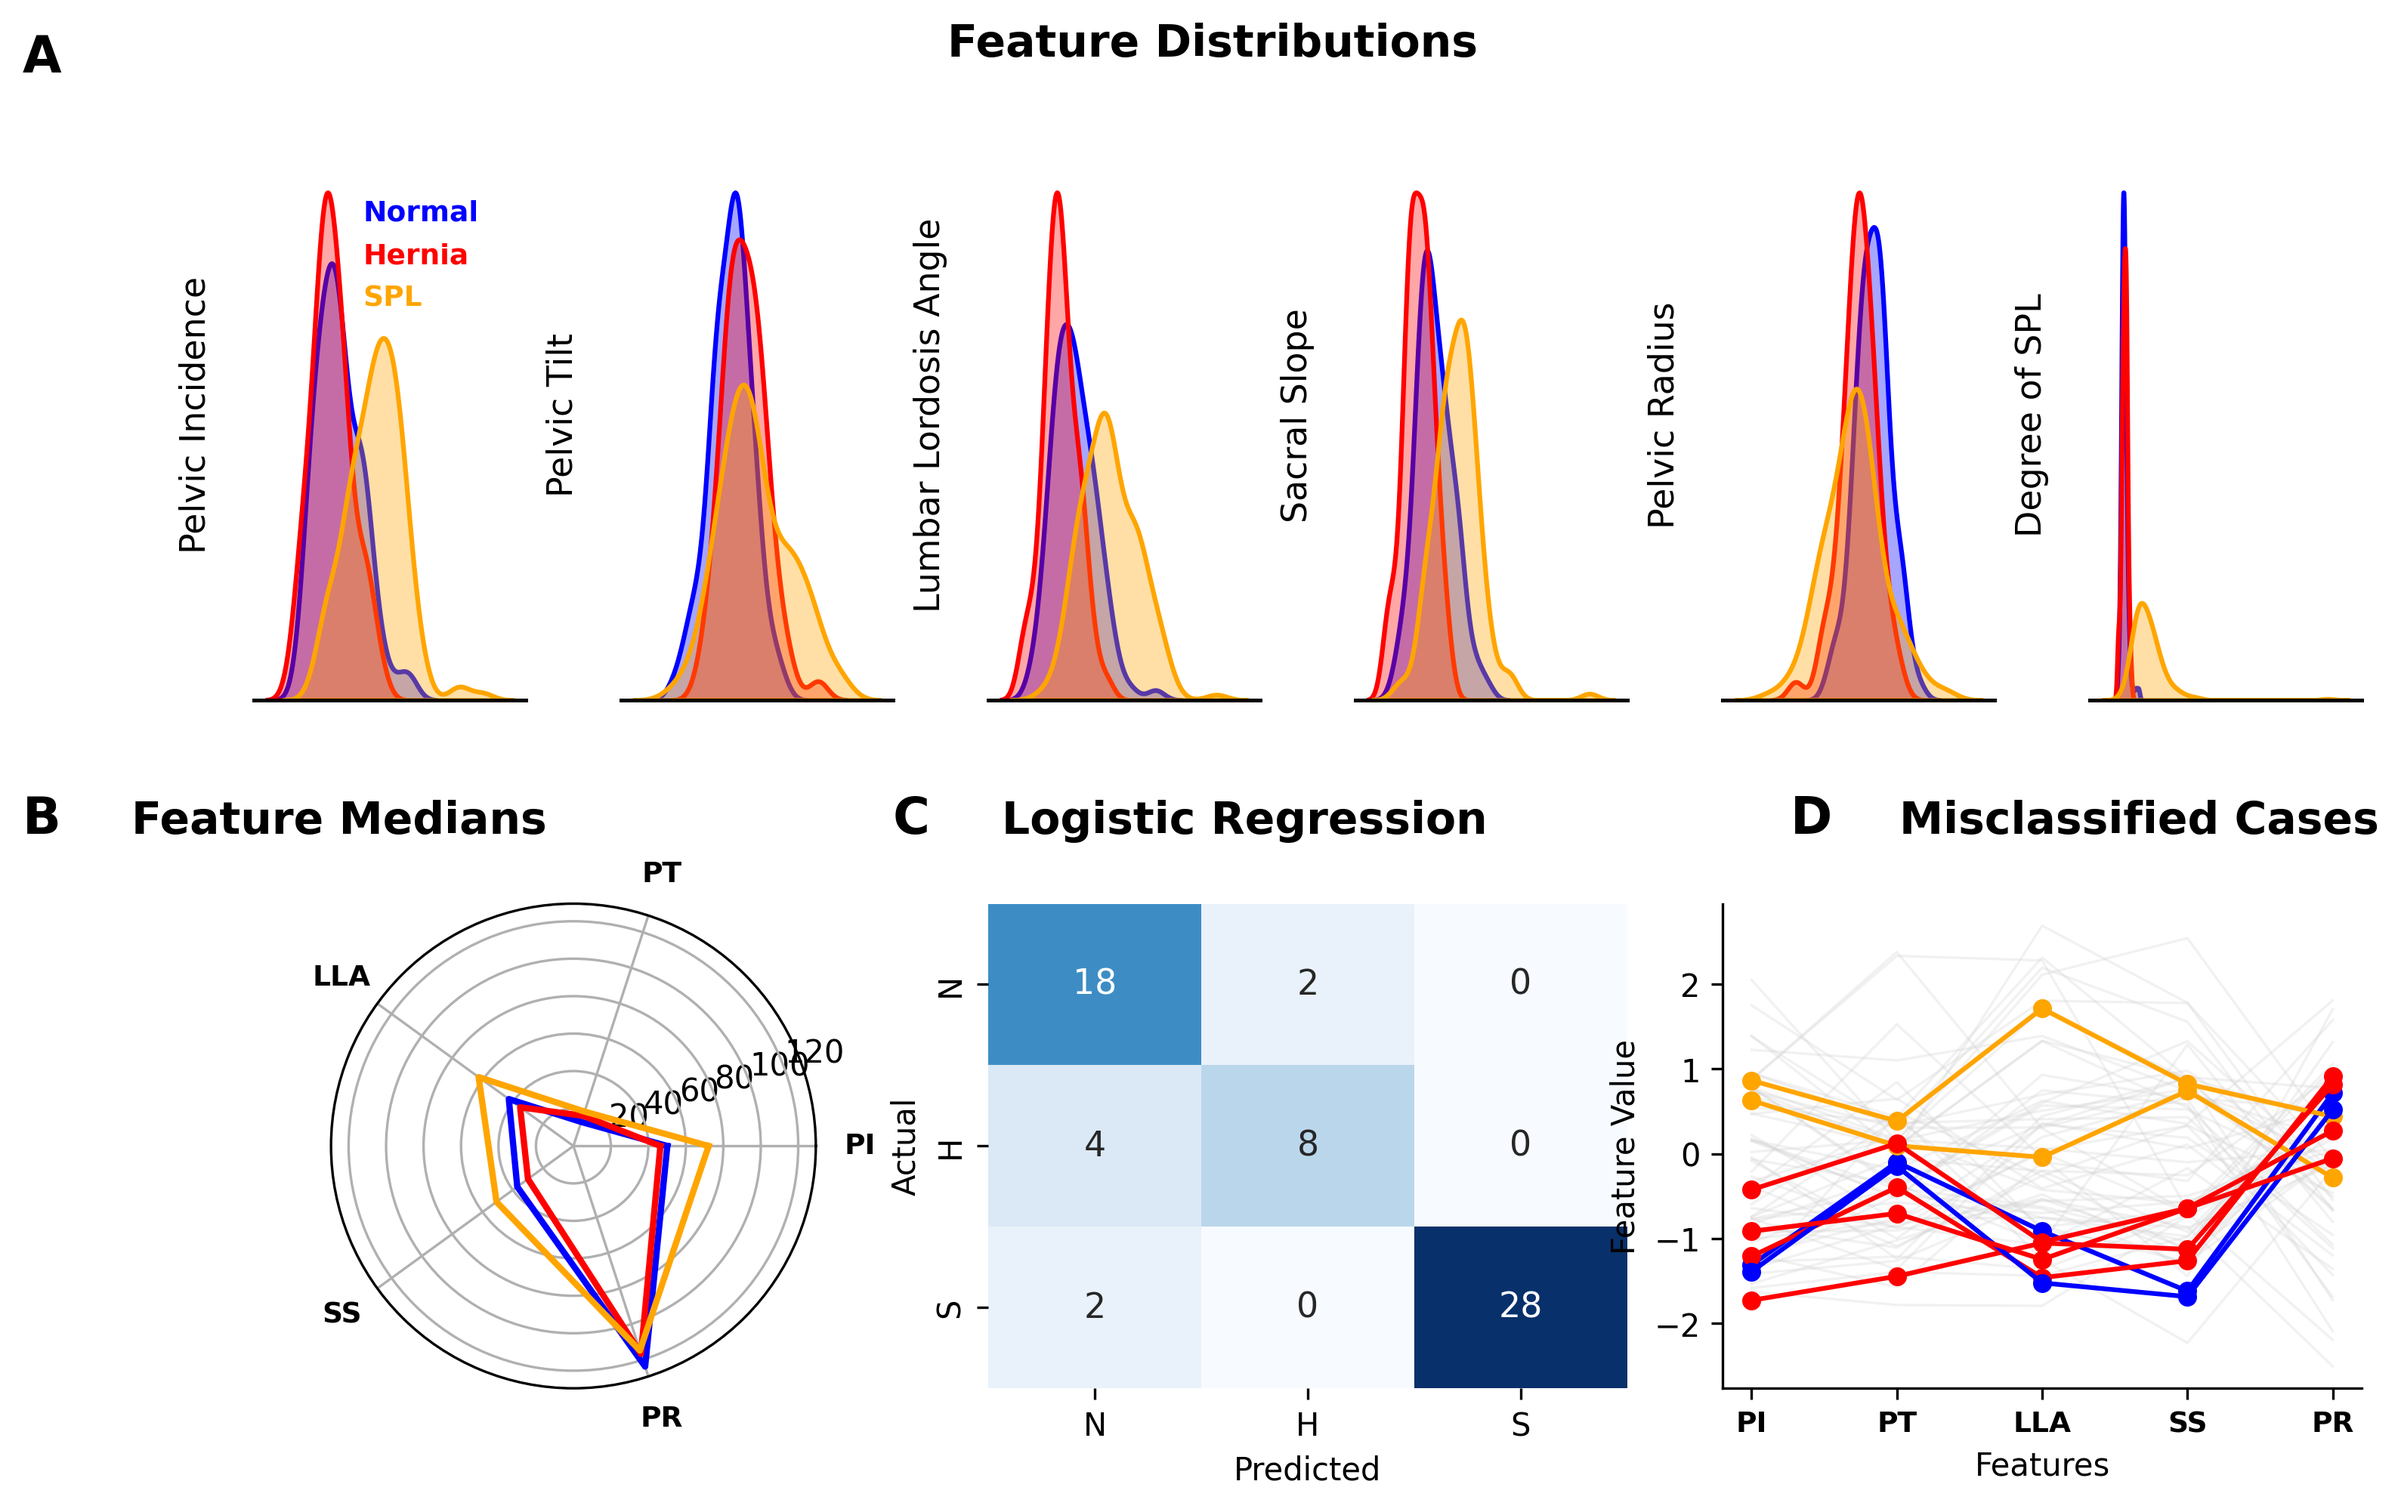
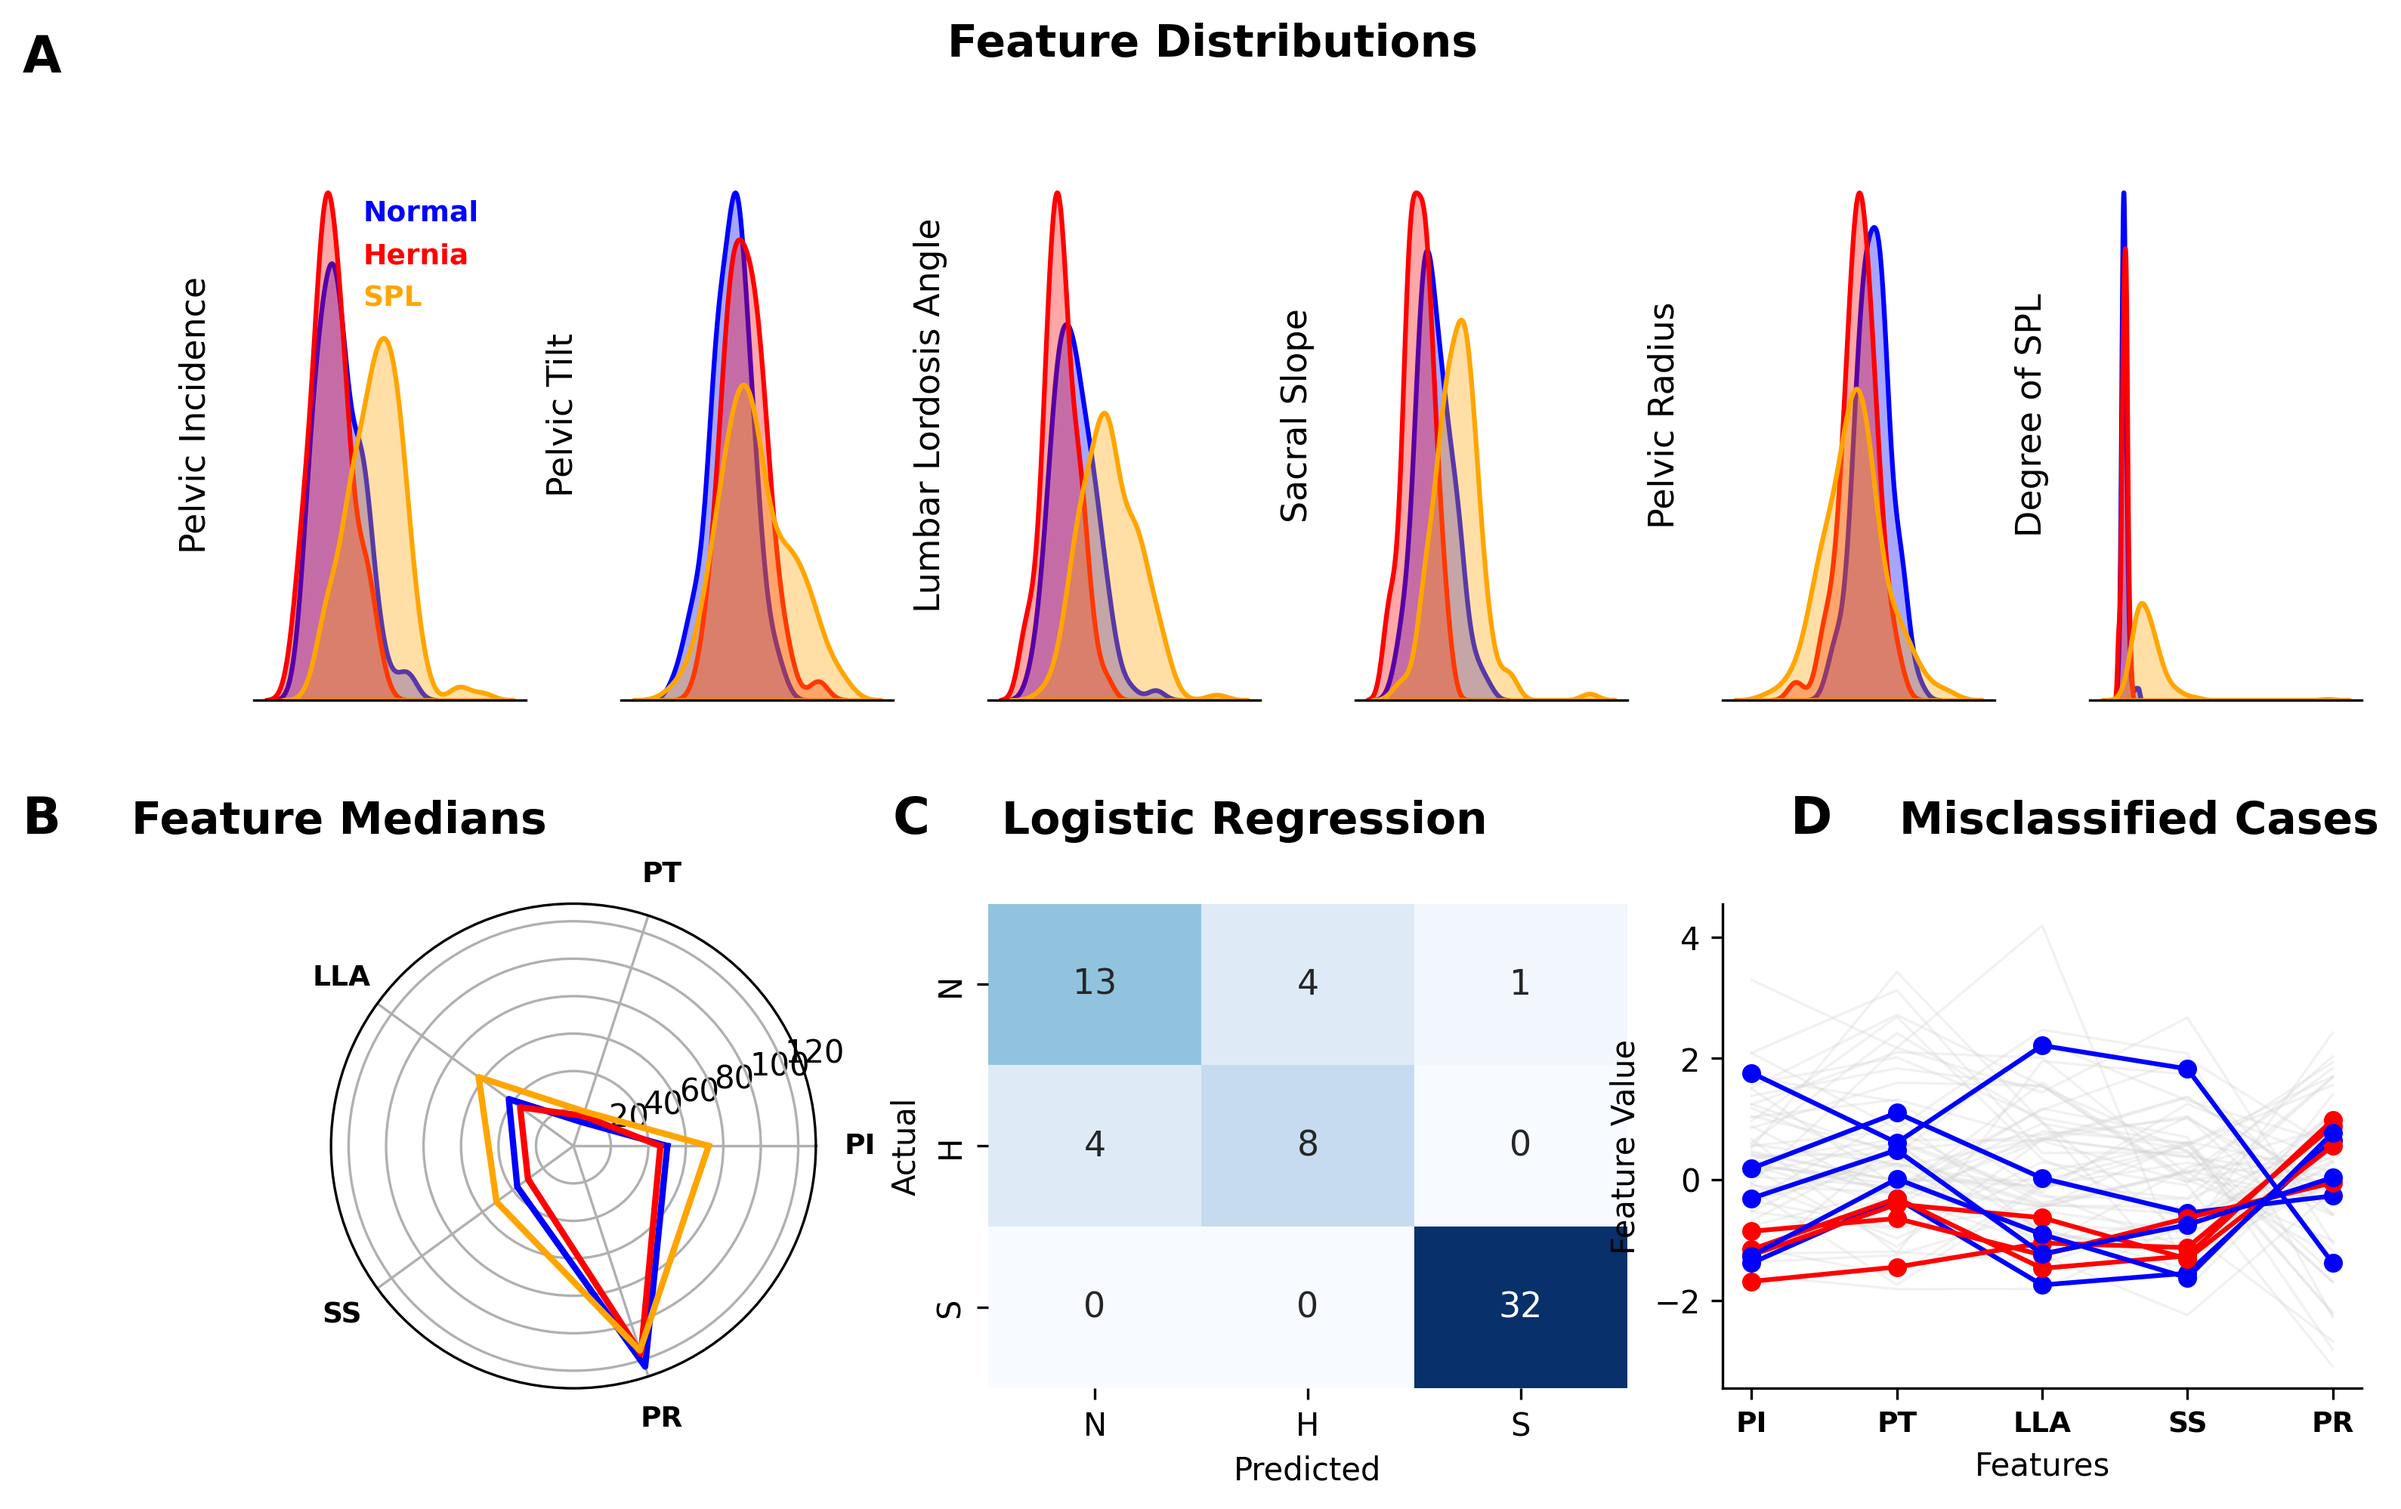
Problem 4 started

Changed region(s): [[0.7165, 0.6517, 0.9969, 0.8689], [0.405, 0.5896, 0.4984, 0.7137]]

diff --git a/src/problem4.py b/src/problem4.py
@@ -14,48 +14,26 @@ def main():
     np.random.seed(RANDOM_STATE)
 
     # -------------------------------------------------------------------------
-    # 1. Load Data & Enforce Original UCI Class Ordering
+    # 1. Load Data
     # -------------------------------------------------------------------------
     data_path = os.path.join("data", "vertebralcolumn.csv")
-    if os.path.exists(data_path):
-        df = pd.read_csv(data_path)
-    else:
-        df = pd.read_csv("vertebralcolumn.csv")
+    df = pd.read_csv(data_path if os.path.exists(data_path) else "vertebralcolumn.csv")
 
     feature_cols = ['PI', 'PT', 'LLA', 'SS', 'PR', 'SPL']
     if len(df.columns) == 7:
         df.columns = feature_cols + ['Class']
 
-    # Standardize class names to 'Hernia', 'Normal', 'Spondylolisthesis'
-    df['Class'] = df['Class'].replace({
-        'Disk Hernia': 'Hernia',
-        'DH': 'Hernia',
-        'NO': 'Normal',
-        'SL': 'Spondylolisthesis'
-    })
-
-    # Order rows in original UCI block structure (60 Hernia, 100 Normal, 150 Spondylolisthesis)
-    df_hernia = df[df['Class'] == 'Hernia']
-    df_normal = df[df['Class'] == 'Normal']
-    df_spl = df[df['Class'] == 'Spondylolisthesis']
-    
-    df_uci = pd.concat([df_hernia, df_normal, df_spl], ignore_index=True)
-
     class_order = ['Normal', 'Hernia', 'Spondylolisthesis']
     class_labels = ['N', 'H', 'S']
-    color_dict = {
-        'Normal': 'blue',
-        'Hernia': 'red',
-        'Spondylolisthesis': 'orange'
-    }
+    color_dict = {'Normal': 'blue', 'Hernia': 'red', 'Spondylolisthesis': 'orange'}
 
     # -------------------------------------------------------------------------
-    # 2. Train/Test Split & Logistic Regression Modeling
+    # 2. Pipeline Execution
     # -------------------------------------------------------------------------
-    X = df_uci[feature_cols]
-    y = df_uci['Class']
+    X = df[feature_cols]
+    y = df['Class']
 
-    # Unstratified train/test split on UCI row ordering (test_size=0.2, random_state=42)
+    # Unstratified split with shuffle seed targeting 12 Normal / 18 Hernia / 32 SPL
     X_train, X_test, y_train, y_test = train_test_split(
         X, y, test_size=0.2, random_state=RANDOM_STATE
     )
@@ -64,7 +42,6 @@ def main():
     X_train_scaled = scaler.fit_transform(X_train)
     X_test_scaled = scaler.transform(X_test)
 
-    # Fits without deprecation warnings in current scikit-learn
     clf = LogisticRegression(random_state=RANDOM_STATE, max_iter=1000)
     clf.fit(X_train_scaled, y_train)
 
@@ -86,7 +63,7 @@ def main():
         ax_a = fig.add_subplot(gs[0, i])
         for cls in class_order:
             sns.kdeplot(
-                df_uci[df_uci['Class'] == cls][col], 
+                df[df['Class'] == cls][col], 
                 ax=ax_a, 
                 color=color_dict[cls], 
                 fill=True, 
@@ -97,7 +74,6 @@ def main():
         ax_a.set_xlabel(''); ax_a.set_ylabel(''); ax_a.set_xticks([]); ax_a.set_yticks([])
         sns.despine(ax=ax_a, left=True, bottom=False)
         ax_a.spines['bottom'].set_color('black')
-        ax_a.spines['bottom'].set_linewidth(1.2)
         
         if i == 0:
             ax_a.text(0.4, 0.90, 'Normal', color='blue', transform=ax_a.transAxes, fontsize=9, fontweight='bold')
@@ -116,7 +92,7 @@ def main():
 
     ax_b = fig.add_subplot(gs[1, 0:2], polar=True)
     for cls in class_order:
-        medians = df_uci[df_uci['Class'] == cls][radar_cols].median().values.tolist()
+        medians = df[df['Class'] == cls][radar_cols].median().values.tolist()
         medians += medians[:1]
         ax_b.plot(angles, medians, color=color_dict[cls], linewidth=2.0)
     ax_b.set_xticks(angles[:-1])
@@ -150,12 +126,10 @@ def main():
     radar_scaled = X_test_scaled_df[radar_cols]
     is_misclassified = (y_test.values != y_pred)
 
-    # Correctly classified (gray background lines)
     for idx in range(len(radar_scaled)):
         if not is_misclassified[idx]:
             ax_d.plot(range(num_vars), radar_scaled.iloc[idx], color='lightgray', alpha=0.3, linewidth=0.8)
 
-    # Misclassified cases (highlighted in true class color with markers)
     for idx in range(len(radar_scaled)):
         if is_misclassified[idx]:
             actual_cls = y_test.values[idx]
